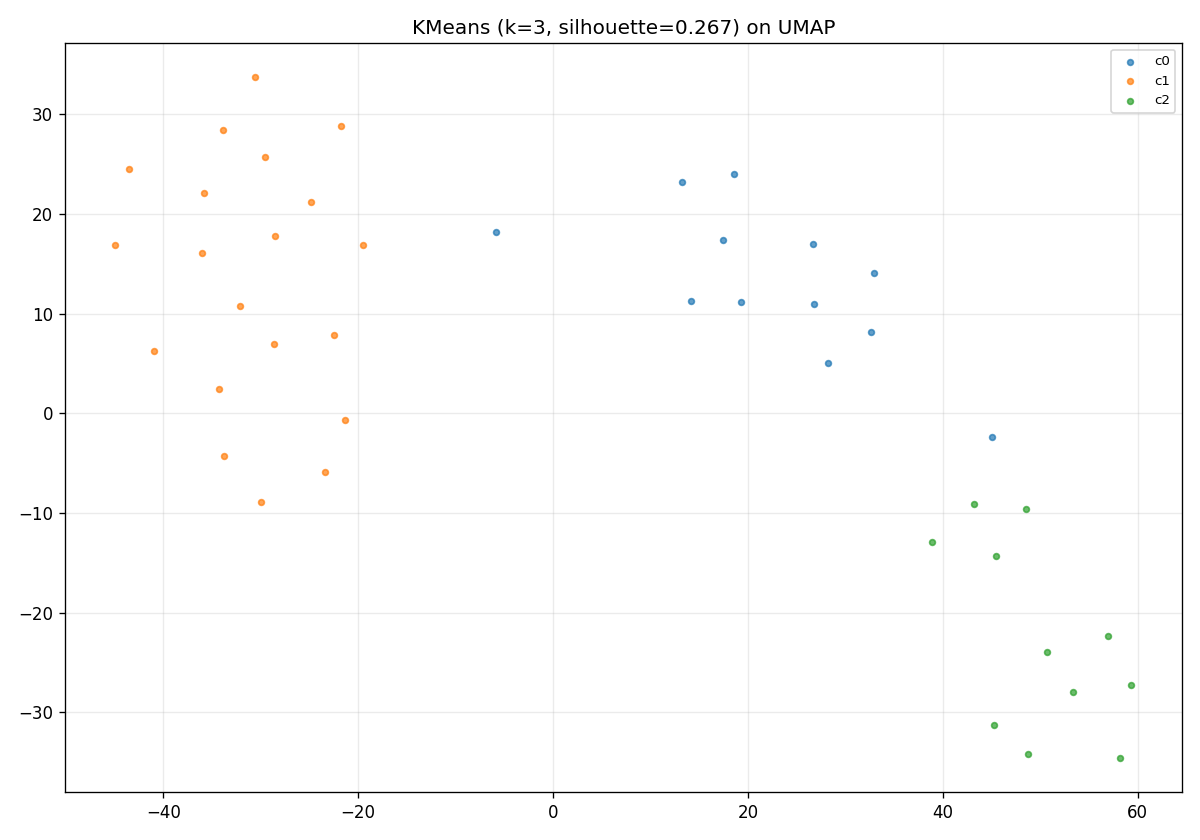
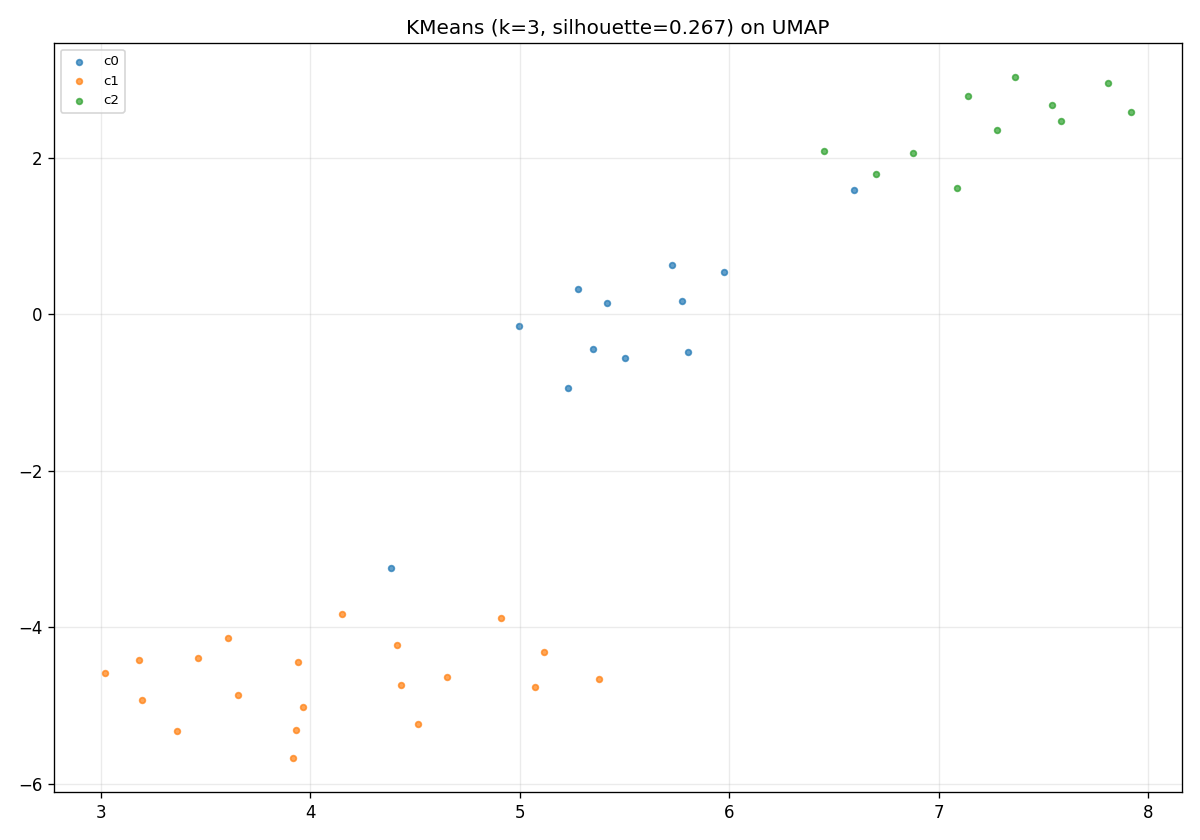
text embedding cluster analysis

diff --git a/text_embedding_clusters.py b/text_embedding_clusters.py
@@ -1,0 +1,184 @@
+#!/usr/bin/env python3
+# -*- coding: utf-8 -*-
+"""
+Text embedding clustering visualization with MobileCLIP.
+- Input: one or more JSON files containing { "group_name": [ {"tag": "..."} ] }
+- Output: scatter plots (PCA/UMAP/t-SNE), cosine heatmap, KMeans report, dendrogram
+"""
+
+import argparse, os, sys, json, random
+from pathlib import Path
+from typing import List, Dict
+
+import numpy as np
+import matplotlib
+matplotlib.use("Agg")
+import matplotlib.pyplot as plt
+
+import torch
+import torch.nn.functional as F
+
+# ---------------- MobileCLIP safe import ----------------
+def _import_mobileclip():
+    try:
+        import mobileclip
+        return sys.modules["mobileclip"]
+    except Exception as e:
+        raise ImportError("Could not import 'mobileclip'. Please check PYTHONPATH.") from e
+
+# ---------------- Determinism ----------------
+def set_seed(seed=1234):
+    os.environ.setdefault("CUBLAS_WORKSPACE_CONFIG", ":16:8")
+    random.seed(seed); np.random.seed(seed)
+    torch.manual_seed(seed); torch.cuda.manual_seed_all(seed)
+    torch.backends.cudnn.benchmark = False
+    torch.backends.cudnn.deterministic = True
+    torch.backends.cuda.matmul.allow_tf32 = False
+    torch.backends.cudnn.allow_tf32 = False
+    torch.use_deterministic_algorithms(True)
+
+# ---------------- JSON Loader ----------------
+def load_tags_from_jsons(paths: List[str]) -> List[str]:
+    tags = []
+    for p in paths:
+        with open(p, "r") as f:
+            data = json.load(f)
+        for group_name, items in data.items():
+            if isinstance(items, list):
+                for it in items:
+                    tag = str(it.get("tag", "")).strip()
+                    if tag and tag.lower() != "na":
+                        tags.append(tag)
+    return tags
+
+# ---------------- Projections ----------------
+def run_projection(X: np.ndarray, method: str, seed=1234) -> np.ndarray:
+    method = method.lower()
+    if method == "pca":
+        from sklearn.decomposition import PCA
+        return PCA(n_components=2, random_state=seed).fit_transform(X)
+    elif method == "umap":
+        try:
+            import umap
+            reducer = umap.UMAP(n_components=2, random_state=seed, metric="cosine", min_dist=0.1)
+            return reducer.fit_transform(X)
+        except Exception:
+            print("[WARN] umap-learn not installed, falling back to t-SNE")
+            method = "tsne"
+    if method == "tsne":
+        from sklearn.manifold import TSNE
+        return TSNE(n_components=2, random_state=seed, metric="cosine", init="pca",
+                    perplexity=min(30, max(5, len(X)//2))).fit_transform(X)
+    raise ValueError("Unknown method, use pca|umap|tsne.")
+
+# ---------------- Plots ----------------
+def save_scatter(X2, labels, out, title=""):
+    plt.figure(figsize=(10,7), dpi=120)
+    plt.scatter(X2[:,0], X2[:,1], s=40, alpha=0.8)
+    for (x,y,l) in zip(X2[:,0], X2[:,1], labels):
+        plt.text(x, y, l, fontsize=8, ha="center", va="center")
+    plt.title(title)
+    plt.grid(True, alpha=0.25)
+    plt.tight_layout()
+    plt.savefig(out); plt.close()
+
+def save_heatmap(C, labels, out):
+    import seaborn as sns
+    plt.figure(figsize=(8,7), dpi=120)
+    sns.heatmap(C, vmin=-1, vmax=1, cmap="viridis",
+                xticklabels=labels, yticklabels=labels)
+    plt.title("Cosine Similarity")
+    plt.tight_layout()
+    plt.savefig(out); plt.close()
+
+def save_dendrogram(C, labels, out):
+    from scipy.cluster.hierarchy import linkage, dendrogram
+    from scipy.spatial.distance import squareform
+    D = 1 - np.clip(C, -1, 1)
+    D = D + np.eye(D.shape[0])*1e-6
+    Y = squareform(D, checks=False)
+    Z = linkage(Y, method="average")
+    plt.figure(figsize=(12, 5 + 0.08*len(labels)), dpi=120)
+    dendrogram(Z, labels=labels, leaf_rotation=90)
+    plt.title("Hierarchical (average-link) on cosine distance")
+    plt.tight_layout()
+    plt.savefig(out); plt.close()
+
+# ---------------- Clustering ----------------
+def auto_kmeans(X: np.ndarray, kmin=2, kmax=10, seed=1234):
+    from sklearn.cluster import KMeans
+    from sklearn.metrics import silhouette_score
+    best_k, best_score, best_labels = 1, -1, None
+    for k in range(kmin, min(kmax, len(X))+1):
+        km = KMeans(n_clusters=k, n_init=10, random_state=seed)
+        labels = km.fit_predict(X)
+        if len(set(labels)) < 2: continue
+        sc = silhouette_score(X, labels, metric="cosine")
+        if sc > best_score:
+            best_k, best_score, best_labels = k, sc, labels
+    if best_labels is None:
+        return np.zeros(len(X), dtype=int), 1, 0.0
+    return best_labels, best_k, float(best_score)
+
+# ---------------- Main ----------------
+def main():
+    ap = argparse.ArgumentParser("MobileCLIP text embedding visualization")
+    ap.add_argument("--jsons", type=str, nargs="+", required=True,
+                    help="JSON file(s) with {group:[{tag:..., ref_dir:...}]}")
+    ap.add_argument("--model_path", type=str, default="./checkpoints/mobileclip_s2.pt")
+    ap.add_argument("--device", type=str, default="cuda:0")
+    ap.add_argument("--outdir", type=str, default="./experiements/text_embedding_cluster")
+    ap.add_argument("--proj", type=str, default="umap", choices=["pca","umap","tsne"])
+    ap.add_argument("--seed", type=int, default=1234)
+    ap.add_argument("--auto_kmax", type=int, default=10)
+    args = ap.parse_args()
+
+    set_seed(args.seed)
+    outdir = Path(args.outdir); outdir.mkdir(parents=True, exist_ok=True)
+
+    # ---- Load tags ----
+    tags = load_tags_from_jsons(args.jsons)
+    print(f"Loaded {len(tags)} text prompts.")
+
+    # ---- Load MobileCLIP ----
+    mobileclip = _import_mobileclip()
+    model_name = os.path.splitext(os.path.basename(args.model_path))[0]
+    model, _, _ = mobileclip.create_model_and_transforms(model_name, pretrained=args.model_path)
+    device = torch.device(args.device if torch.cuda.is_available() else "cpu")
+    model = model.to(device).eval()
+    tokenizer = mobileclip.get_tokenizer(model_name)
+
+    # ---- Encode text ----
+    with torch.no_grad():
+        toks = tokenizer(tags).to(device)
+        te = model.encode_text(toks)
+        te = F.normalize(te.float(), dim=-1)
+    E = te.cpu().numpy()
+
+    # ---- Cosine similarity ----
+    C = E @ E.T
+    save_heatmap(C, tags, outdir/"cosine_heatmap.png")
+
+    # ---- Projection ----
+    X2 = run_projection(E, args.proj, seed=args.seed)
+    save_scatter(X2, tags, outdir/f"scatter_{args.proj}.png",
+                 title=f"Text embeddings ({args.proj.upper()})")
+
+    # ---- KMeans ----
+    labels, k_opt, sil = auto_kmeans(E, kmin=2, kmax=args.auto_kmax, seed=args.seed)
+    save_scatter(X2, [f"{t} (c{labels[i]})" for i,t in enumerate(tags)],
+                 outdir/f"kmeans_{args.proj}.png",
+                 title=f"KMeans (k={k_opt}, silhouette={sil:.3f})")
+
+    with open(outdir/"kmeans_report.json","w") as f:
+        json.dump({"k": int(k_opt), "silhouette_cosine": sil,
+                   "clusters": {int(c): [tags[i] for i in np.where(labels==c)[0]]
+                                for c in np.unique(labels)}}, f, indent=2)
+
+    # ---- Dendrogram ----
+    save_dendrogram(C, tags, outdir/"dendrogram.png")
+
+    print(f"[OK] Wrote outputs to {outdir}")
+
+if __name__ == "__main__":
+    main()
